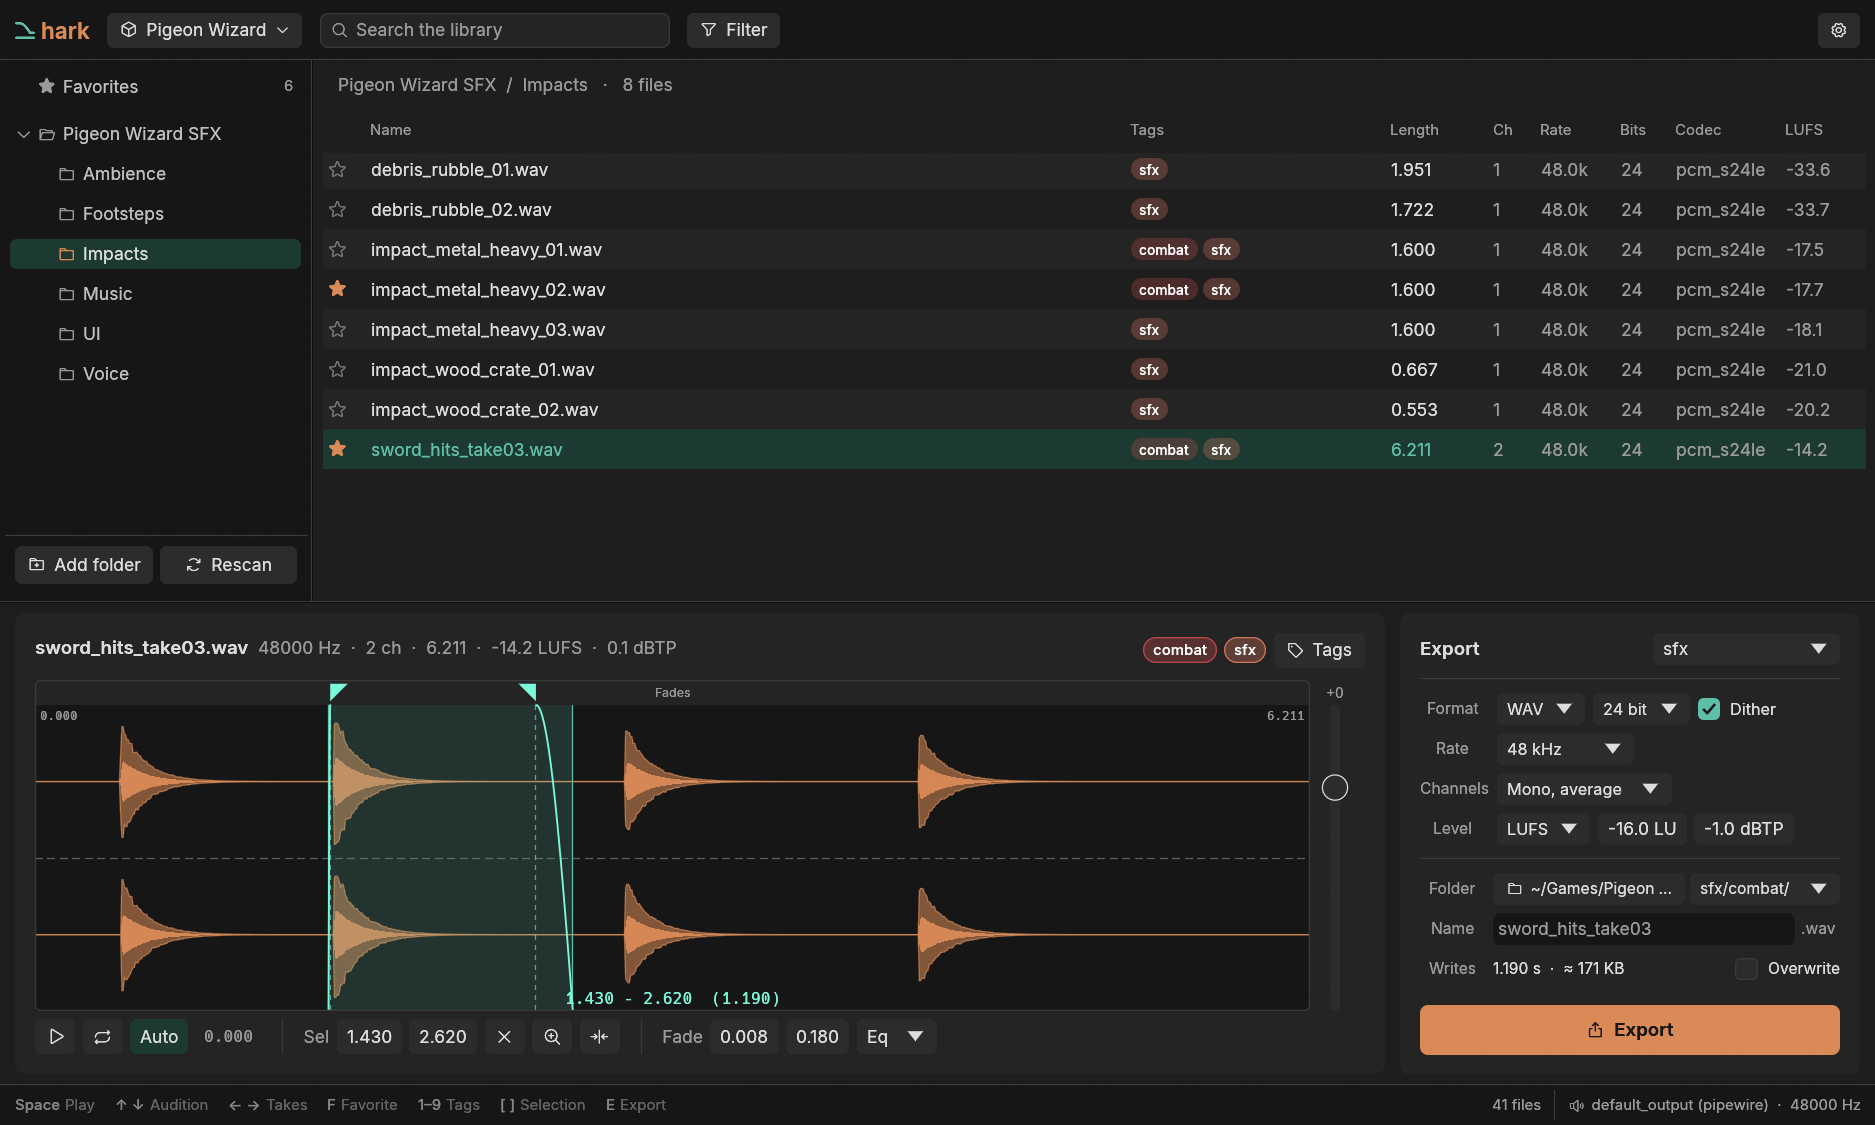
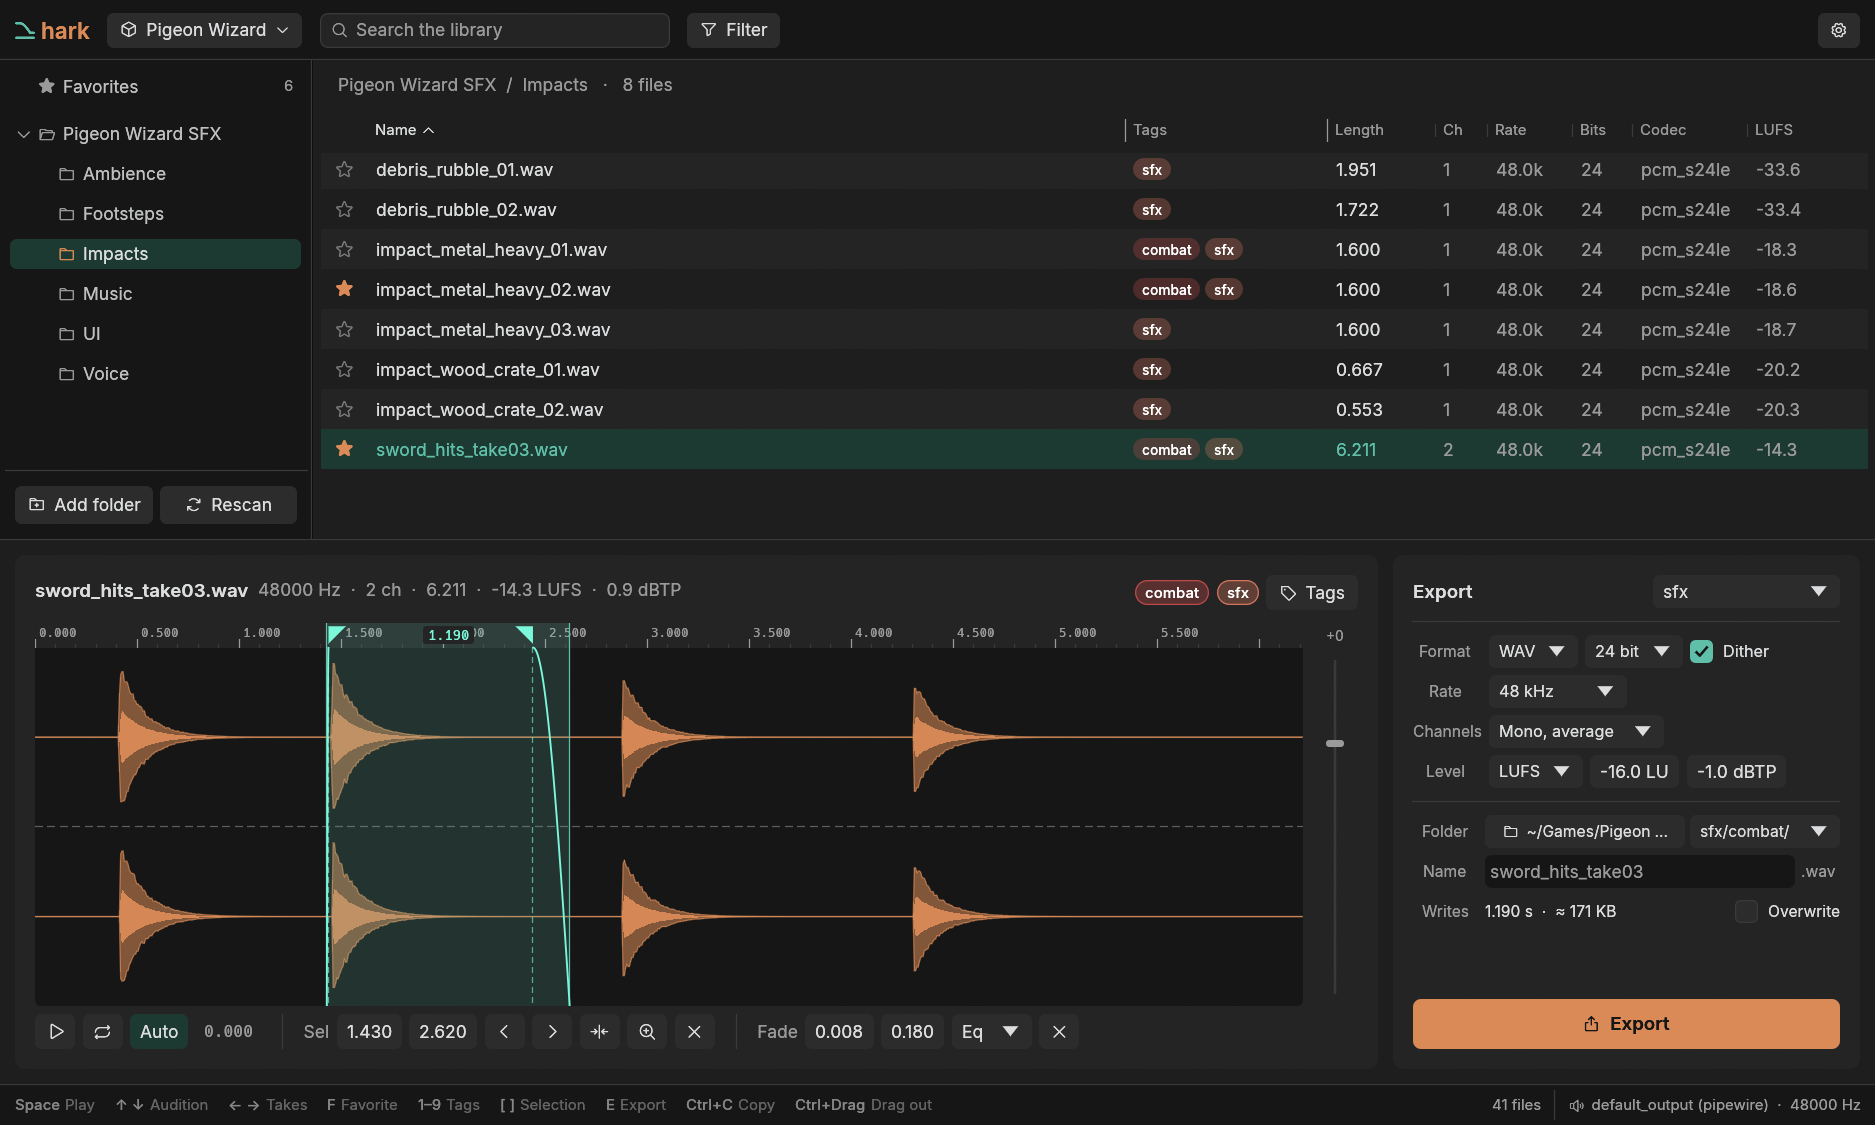
The footer names Ctrl+Drag beside Ctrl+C, the README lists the keys as a feature, and the screenshots and the social card are retaken from the current window.

diff --git a/crates/hark/src/main.rs b/crates/hark/src/main.rs
@@ -2342,6 +2342,7 @@ impl App {
                     (pair(Action::SelectionStart, Action::SelectionEnd), "Selection"),
                     (self.key_of(Action::Export), "Export"),
                     ("Ctrl+C".to_string(), "Copy"),
+                    ("Ctrl+Drag".to_string(), "Drag out"),
                 ];
                 for (key, action) in &hints {
                     self.key_hint(ui, key, action);

diff --git a/README.md b/README.md
@@ -22,6 +22,7 @@ Auditioning a big library in a DAW means importing first, and in a file manager 
 - **Copy and drag into a DAW.** Ctrl-drag the waveform into Reaper, Pro Tools, a folder or a chat, or press Ctrl+C and paste: the selection as heard, with its fades and gain, lands as a WAV at the source's rate and channels. Copies stay in hark's own folder until you clear it, since a DAW may reference them in place.
 - **Preset-driven export.** WAV or FLAC, bit depth with dither, resampling, mono downmix, peak or EBU R128 loudness normalisation under a true-peak ceiling, and a file name template. Override any of it for one export.
 - **An origin inside every export.** A `hark` RIFF chunk and a BWF `bext` description in WAV, an APPLICATION block and a Vorbis comment in FLAC: source path and hash, pack, selection, fades, preset and measured gain. `hark-cli reexport` runs that recipe again with changes.
+- **Keys you can change.** Every action has a key, and all but the list's arrows and the tag digits can be rebound on the settings window's Keys page or with the CLI.
 - **A CLI for all of it.** `hark-cli` exposes the same core with `--json` on every command, so a script or an agent can search, mark, analyse and export without a window.
 
 ![The presets page of the settings window](docs/screenshots/presets.png)
